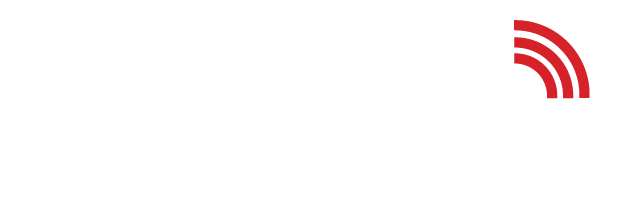
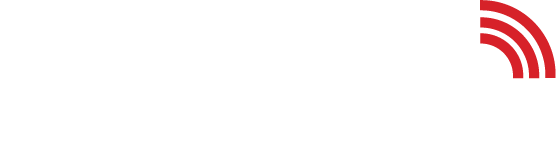
fix: [ENGR-6825] [ENGR-6826] adjust the Live Appearance header and hide the request status

Changed region(s): [[0.8241, 0.0, 1.0, 0.5]]

diff --git a/template-parts/portal-styles.php b/template-parts/portal-styles.php
@@ -3702,7 +3702,8 @@
 
     body.page-template-page-portal-live-php .live-intro-text {
         margin-bottom: 16px;
-        text-align: center;
+        text-align: left;
+        padding: 0 20px;
     }
 
     body.page-template-page-portal-live-php .live-intro-text p {
@@ -3784,9 +3785,21 @@
 
     body.page-template-page-portal-live-php .live-wn-logo__wordmark {
         max-width: 420px;
-        width: 100%;
+        width: 55%;
         height: auto;
         object-fit: contain;
+    }
+
+    @media (max-width: 767px) {
+        body.page-template-page-portal-live-php .live-wn-logo__wordmark {
+            width: 55px;
+            max-width: 55px;
+            flex-shrink: 0;
+        }
+
+        body.page-template-page-portal-live-php .live-contest-panel {
+            padding: 20px 10px;
+        }
     }
 
     body.page-template-page-portal-live-php .live-section-heading--banner {
@@ -3805,7 +3818,7 @@
         margin: 28px auto 18px;
         font-family: "Cinzel", serif;
         font-size: 28px;
-        font-weight: 700;
+        font-weight: 400;
         line-height: 1.25;
         letter-spacing: 0.04em;
         text-transform: uppercase;
@@ -3824,6 +3837,7 @@
         justify-content: center;
         gap: 12px 36px;
         margin-bottom: 18px;
+        padding: 20px 0;
     }
 
     body.page-template-page-portal-live-php .live-contest-tab {
@@ -3860,6 +3874,10 @@
     body.page-template-page-portal-live-php .live-contest-tab.is-open .live-contest-chevron {
         transform: rotate(90deg);
         filter: invert(22%) sepia(62%) saturate(700%) hue-rotate(6deg) brightness(90%);
+    }
+
+    body.page-template-page-portal-live-php .live-contest-panel {
+        padding: 20px 100px;
     }
 
     body.page-template-page-portal-live-php .live-contest-panel ul {
@@ -3996,7 +4014,7 @@
     body.page-template-page-portal-live-php .live-stream-now {
         display: block;
         width: min(420px, 100%);
-        margin: 36px auto 8px;
+        margin: 36px auto 80px;
         padding: 18px 28px;
         border: 0;
         border-radius: 4px;
@@ -4093,6 +4111,12 @@
         font-size: 18px;
         font-weight: 600;
         color: #fff;
+    }
+
+    body.page-template-page-portal-live-php .live-form-block > .live-label,
+    body.page-template-page-portal-live-php .live-form-block > .live-label ~ *,
+    body.page-template-page-portal-live-php .live-form-block ~ * {
+        display: none;
     }
 
     body.page-template-page-portal-live-php .live-label--opponent {
@@ -4372,7 +4396,7 @@
     body.page-template-page-portal-live-php .la-schedule-item:last-child { border-bottom:none; }
     body.page-template-page-portal-live-php .la-schedule-name { color:#ccc; font-size:14px; flex:1; }
     body.page-template-page-portal-live-php .la-schedule-actions { display:flex; gap:8px; }
-    body.page-template-page-portal-live-php .live-calendar-launch-row { display:flex; align-items:center; gap:12px; margin:2px 0 14px; }
+    body.page-template-page-portal-live-php .live-calendar-launch-row { display:none; }
     body.page-template-page-portal-live-php .live-calendar-launch-label { color:#dcdcdc; font-size:16px; }
     body.page-template-page-portal-live-php .live-calendar-open-btn { border:0; background:transparent; cursor:pointer; padding:0; }
     body.page-template-page-portal-live-php .live-calendar-modal { position:fixed; inset:0; z-index:10000; }

diff --git a/page-portal-live.php b/page-portal-live.php
@@ -155,10 +155,10 @@ if ( ! empty( $la_calendar_posts ) ) {
                 $la_months    = [ 'January', 'February', 'March', 'April', 'May', 'June', 'July', 'August', 'September', 'October', 'November', 'December' ];
                 ?>
                 <div class="live-wn-logo">
-                    <img src="<?php echo esc_url( $la_theme_uri ); ?>/images/live/world-network-logo.png" alt="" class="live-wn-logo__camera">
+                    <img src="<?php echo esc_url( $la_theme_uri ); ?>/images/live/live.png" alt="" class="live-wn-logo__camera">
                     <img src="<?php echo esc_url( $la_theme_uri ); ?>/images/live/world-network-wordmark.png" alt="world network live appearance" class="live-wn-logo__wordmark">
                 </div>
-
+                <div class="live-separator"></div>
                 <section class="live-intro-text">
                     <p>We believe live competition creates real connection and lasting influence.</p>
                     <p>Influencers will automatically be eligible to make a live appearance on the World Network.</p>
@@ -842,17 +842,9 @@ $_live_nonce = wp_create_nonce( 'request_live_appearance_nonce' );
                     setReferralUrl(res.data.url);
                     return;
                 }
-                var errMsg = (res.data && res.data.message) ? res.data.message : 'Referral link unavailable.';
                 setReferralUrl('');
-                var el = document.getElementById('live-url-display');
-                if (el) {
-                    el.textContent = errMsg;
-                }
             }).catch(function() {
-                var el = document.getElementById('live-url-display');
-                if (el) {
-                    el.textContent = 'Could not load referral link.';
-                }
+                setReferralUrl('');
             });
     })();
 
